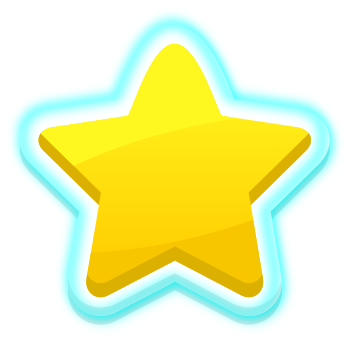
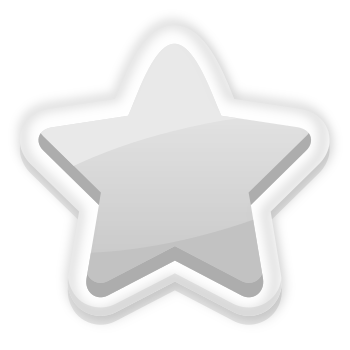
better ui

diff --git a/Classes/ui/game_ui.cpp b/Classes/ui/game_ui.cpp
@@ -29,7 +29,9 @@ game_ui::game_ui():
   shield_bar_(nullptr),
   shield_label_(nullptr),
   pause_item_(nullptr),
-  time_label_(nullptr)
+  time_label_(nullptr),
+  sub_time_label_(nullptr),
+  time_limit_(0)
 {
 }
 
@@ -226,6 +228,24 @@ bool game_ui::init()
 
     addChild(time_label_);
 
+    //////////////////////////////
+    // sub time label
+
+    // create the text for the label
+    sub_time_label_ = Label::createWithTTF("00:00.00", "fonts/tahoma.ttf", 90);
+    UTILS_BREAK_IF(sub_time_label_ == nullptr);
+
+    sub_time_label_->setTextColor(Color4B(0, 0, 255, 255));
+
+    sub_time_label_->enableShadow(Color4B(0, 0, 0, 127), Size(5, -5));
+    sub_time_label_->enableOutline(Color4B(0, 0, 0, 255), 5);
+
+    // position the label
+    sub_time_label_->setPosition(Vec2(time_label_->getPosition().x + time_label_->getContentSize().width,
+                                      time_label_->getPosition().y));
+
+    addChild(sub_time_label_);
+
     ret = true;
   }
   while (false);
@@ -257,7 +277,19 @@ void game_ui::on_reload(Ref* sender)
   scene->reload();
 }
 
-void game_ui::update_time(const float time) const
+void game_ui::update_time(const float time, const unsigned int time_limit)
+{
+  time_limit_ = time_limit;
+  const auto time_left = time_limit - time;
+  if (time_left < 0.f)
+  {
+    sub_time_label_->setTextColor(Color4B(255, 0, 0, 255));
+  }
+  sub_time_label_->setString(time_message(fabs(time_left)));
+  time_label_->setString(time_message(time));
+}
+
+string game_ui::time_message(const float time)
 {
   float whole;
   const auto fractional = std::modf(time, &whole);
@@ -265,18 +297,11 @@ void game_ui::update_time(const float time) const
   const auto minutes = static_cast<int>(whole / 60.f);
   const auto seconds = static_cast<int>(time - (minutes * 60));
   const auto milliseconds = static_cast<int>(fractional * 100);
-  time_label_->setString(string_format("%02d:%02d%c%02d", minutes, seconds, '.', milliseconds));
+  return string_format("%02d:%02d%c%02d", minutes, seconds, '.', milliseconds);
 }
 
-string game_ui::time_message(const unsigned int time)
-{
-  const auto minutes = static_cast<int>(time / 60.f);
-  const auto seconds = static_cast<int>(time - (minutes * 60));
-  return string_format("%02d:%02d%", minutes, seconds);
-}
-
-void game_ui::display_message(const std::string& message, const bool extended /*= false*/,
-                              const unsigned short int stars /*= 0*/, const unsigned int limit_seconds /*= 0*/)
+void game_ui::display_message(const std::string& message, const std::string& sub_message,
+                              const ccMenuCallback& callback, const short int stars /*= -1*/)
 {
   do
   {
@@ -297,12 +322,13 @@ void game_ui::display_message(const std::string& message, const bool extended /*
     const auto horizontal_segment = background->getContentSize().width;
     const auto vertical_segment = background->getContentSize().height;
 
+    background->setCascadeOpacityEnabled(true);
     background->setOpacity(0);
     background->setPosition(size.width / 2, size.height / 2);
     background->setColor(Color3B(0, 255, 255));
 
     addChild(background);
-    background->runAction(FadeTo::create(0.5f, 255));
+    background->runAction(FadeTo::create(0.5f, 190));
 
     const auto header = Sprite::createWithSpriteFrameName("11_message_header.png");
     UTILS_BREAK_IF(header == nullptr);
@@ -315,7 +341,7 @@ void game_ui::display_message(const std::string& message, const bool extended /*
     //////////////////////////////
     // label
 
-    const auto label = Label::createWithTTF(message, "fonts/tahoma.ttf", 200);
+    const auto label = Label::createWithTTF(message, "fonts/tahoma.ttf", 150);
     UTILS_BREAK_IF(label == nullptr);
 
     label->setTextColor(Color4B(0, 255, 255, 255));
@@ -328,6 +354,20 @@ void game_ui::display_message(const std::string& message, const bool extended /*
     header->addChild(label);
 
     //////////////////////////////
+    // sub label
+
+    const auto sub_label = Label::createWithTTF(sub_message, "fonts/tahoma.ttf", 100);
+    UTILS_BREAK_IF(sub_label == nullptr);
+
+    sub_label->setTextColor(Color4B(255, 255, 255, 255));
+    sub_label->enableOutline(Color4B(0, 0, 0, 255), 5);
+
+    // position the label
+    sub_label->setPosition(background->getContentSize().width / 2, (background->getContentSize().height) - 250);
+
+    background->addChild(sub_label);
+
+    //////////////////////////////
     // button
 
     const auto continue_sprite = Sprite::createWithSpriteFrameName("08_Text_1.png");
@@ -336,8 +376,7 @@ void game_ui::display_message(const std::string& message, const bool extended /*
     const auto continue_sprite_click = Sprite::createWithSpriteFrameName("08_Text_2.png");
     UTILS_BREAK_IF(continue_sprite_click == nullptr);
 
-    const auto continue_item = MenuItemSprite::create(continue_sprite, continue_sprite_click,
-                                                      CC_CALLBACK_1(game_ui::on_reload, this));
+    const auto continue_item = MenuItemSprite::create(continue_sprite, continue_sprite_click, callback);
     UTILS_BREAK_IF(continue_item == nullptr);
 
     continue_item->setPosition(horizontal_segment / 2, 0);
@@ -350,11 +389,7 @@ void game_ui::display_message(const std::string& message, const bool extended /*
     label_button->setTextColor(Color4B(255, 255, 255, 255));
     label_button->enableOutline(Color4B(0, 0, 0, 255), 5);
 
-
     continue_item->addChild(label_button);
-
-    continue_item->setOpacity(0);
-    continue_item->runAction(FadeTo::create(0.5f, 255));
 
     //////////////////////////////
     // menu
@@ -365,7 +400,7 @@ void game_ui::display_message(const std::string& message, const bool extended /*
 
     background->addChild(menu);
 
-    if (!extended)
+    if (stars < 0)
     {
       break;
     }
@@ -379,7 +414,7 @@ void game_ui::display_message(const std::string& message, const bool extended /*
     {
       const auto is_gold = start_counter + 1 <= stars;
 
-      const auto star_gray = Sprite::createWithSpriteFrameName("09_star_02.png");
+      const auto star_gray = Sprite::createWithSpriteFrameName("09_star_01.png");
 
       const auto star_pos = first_start_pos + Vec2((horizontal_segment / 3) * start_counter, 0.f);
       star_gray->setPosition(star_pos);
@@ -388,7 +423,7 @@ void game_ui::display_message(const std::string& message, const bool extended /*
       auto star_tex = string("level\ncompleted");
       if (start_counter == 1)
       {
-        star_tex = "under\n" + time_message(limit_seconds);
+        star_tex = "under\n" + time_message(time_limit_);
       }
       else if (start_counter == 2)
       {
@@ -412,6 +447,8 @@ void game_ui::display_message(const std::string& message, const bool extended /*
 
         star_gold->setPosition(star_pos);
         star_gold->setOpacity(0);
+
+        star_gold->setColor(Color3B(0, 255, 255));
 
         const auto play_sound = CallFunc::create(CC_CALLBACK_0(game_ui::star_sound, this));
         const auto delay = DelayTime::create(0.5f + (1.f * start_counter));

diff --git a/Classes/scenes/game_scene.cpp b/Classes/scenes/game_scene.cpp
@@ -40,7 +40,8 @@ game_scene::game_scene() :
   paused_(false),
   total_time_(0.f),
   barrel_count_(0),
-  time_limit_(0)
+  time_limit_(0),
+  level_name_("")
 {
 }
 
@@ -112,6 +113,7 @@ bool game_scene::init()
 
     // get the time limit
     time_limit_ = static_cast<unsigned int>(get_tiled_map()->getProperty("time_limit").asInt());
+    level_name_ = get_tiled_map()->getProperty("name").asString();
 
     //get updates
     scheduleUpdate();
@@ -182,7 +184,7 @@ void game_scene::update(float delta)
   if (!paused_)
   {
     total_time_ += delta;
-    game_ui_->update_time(total_time_);
+    game_ui_->update_time(total_time_, time_limit_);
 
     const auto shield = robot_->get_shield_percentage();
     game_ui_->set_shield_percentage(shield);
@@ -551,12 +553,14 @@ void game_scene::game_over(const bool win)
     if (win)
     {
       audio_helper::get_instance()->play_effect("sounds/victory.mp3");
-      game_ui_->display_message("Level Completed", true, calculate_stars(), time_limit_);
+      game_ui_->display_message("Level Completed", level_name_,
+                                CC_CALLBACK_0(game_scene::reload, this), calculate_stars());
     }
     else
     {
       audio_helper::get_instance()->play_effect("sounds/fail.mp3");
-      game_ui_->display_message("Game Over", false);
+      game_ui_->display_message("Game Over", "\n\n\n\n\nups, we are going to\nneed a new robot.",
+                                CC_CALLBACK_0(game_scene::reload, this));
     }
   }
   while (false);

diff --git a/Classes/ui/game_ui.h b/Classes/ui/game_ui.h
@@ -72,14 +72,14 @@ public:
   }
 
   // update our time
-  void update_time(const float time) const;
+  void update_time(const float time, const unsigned int time_limit);
 
   // get time  string for the message
-  static string time_message(const unsigned int time);
+  static string time_message(const float time);
 
   // display a message
-  void display_message(const std::string& message, const bool extended = false, const unsigned short int stars = 0,
-                       const unsigned int limit_seconds = 0);
+  void display_message(const std::string& message, const std::string& sub_message, const ccMenuCallback& callback,
+                       const short int stars = -1);
 
 private:
 
@@ -98,8 +98,14 @@ private:
   // the time label
   Label* time_label_;
 
+  // the sub time label
+  Label* sub_time_label_;
+
   // make a star sound
   void star_sound();
+
+  // the time limit
+  unsigned int time_limit_;
 };
 
 #endif // __GAME_UI__CLASS__

diff --git a/Classes/scenes/game_scene.h b/Classes/scenes/game_scene.h
@@ -168,6 +168,9 @@ private:
 
   // the time limit
   unsigned int time_limit_;
+
+  // the level name
+  std::string level_name_;
 };
 
 #endif // __MAIN_SCENE__
